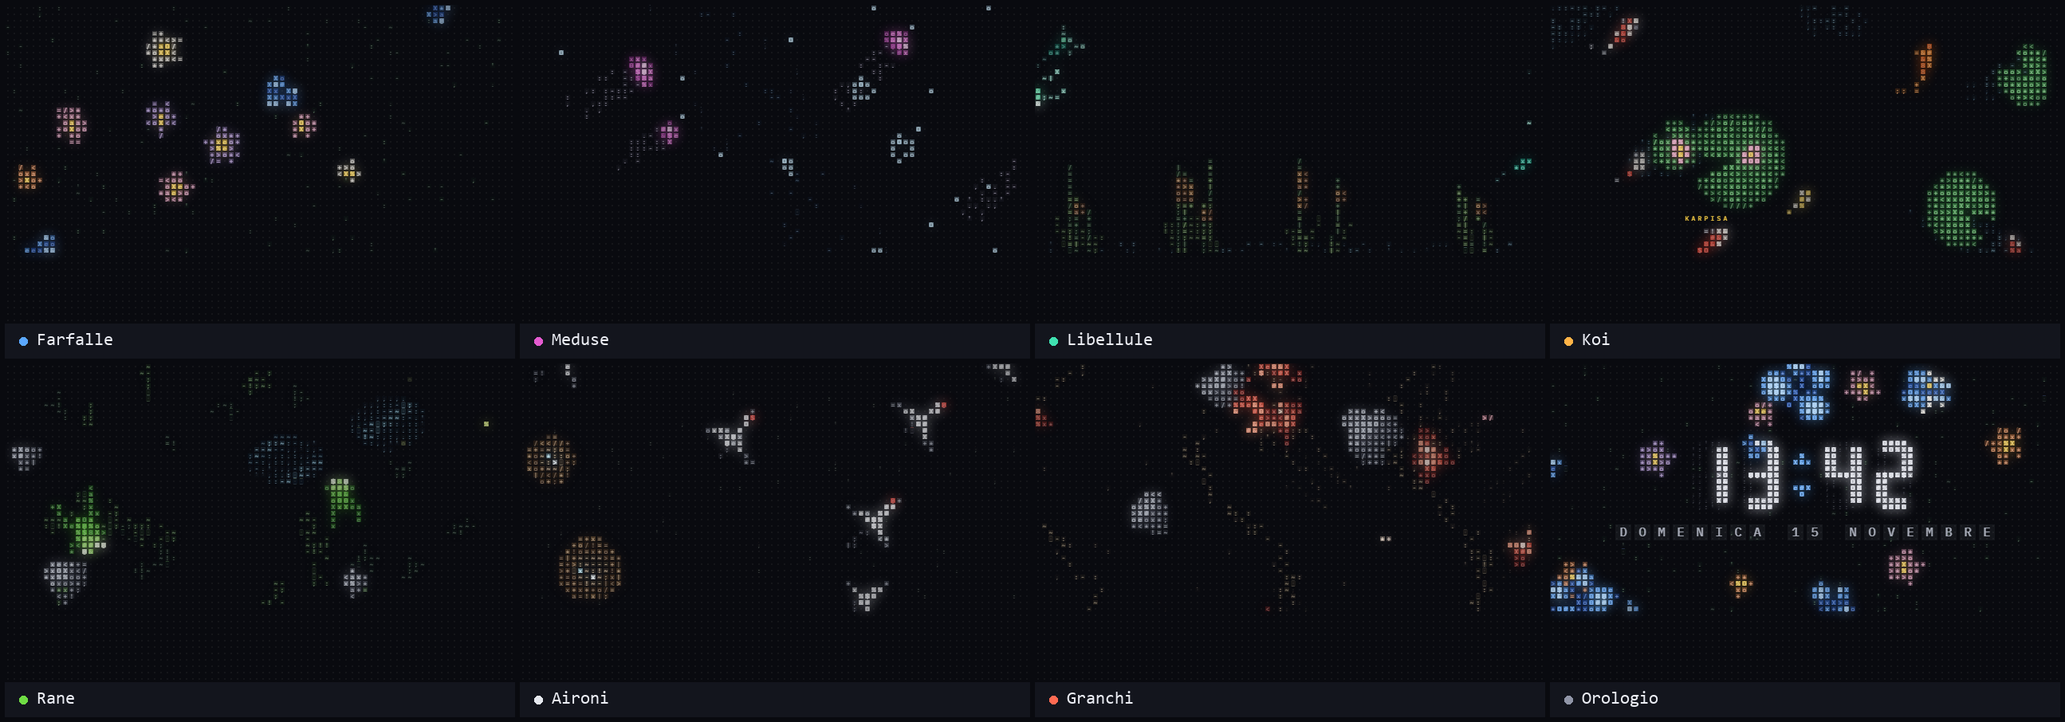
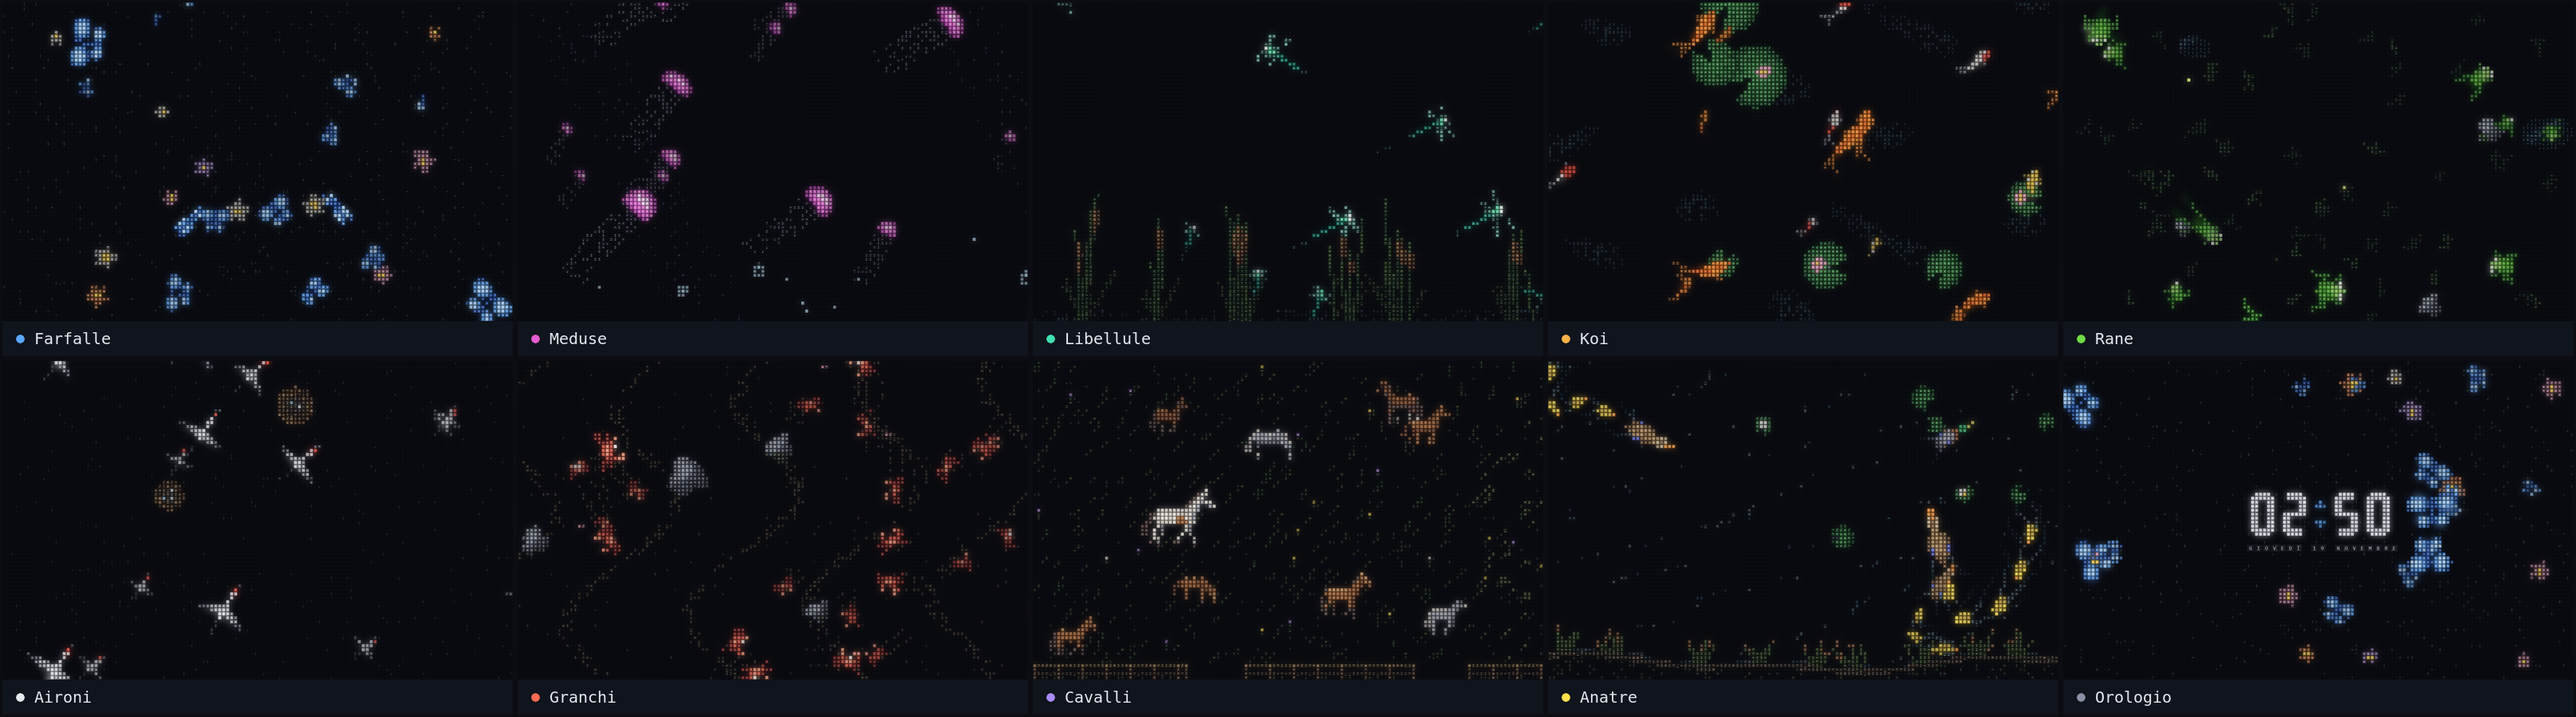
README: l'immagine delle specie con cavalli e anatre
docs/animals.png rifatta con le nove specie più l'orologio (5×2, stesso stile),
testi alternativi aggiornati, e il cibo vale anche per le anatre.

Claude-Session: https://claude.ai/code/session_012nkyHFCHG9uKHkf9beoT6W

diff --git a/README.it.md b/README.it.md
@@ -18,7 +18,7 @@
 Nove specie, una alla volta, ognuna con il suo ambiente. Di serie lo sfondo passa alla successiva ogni 2 minuti; dal programma per Windows si sceglie ogni quanto (da 30 secondi a un'ora) e quali animali far girare. Quando il PC è in carica restano le koi nel loro stagno (si può disattivare).
 
 <p align="center">
-  <img src="docs/animals.png" alt="Le sette specie, ognuna nel suo ambiente: farfalle sul prato fiorito, meduse tra le bolle, libellule sulle canne, koi nello stagno, rane nel prato con sassi e lucciole, aironi con i nidi, granchi sulla sabbia; più l'orologio" width="100%">
+  <img src="docs/animals.png" alt="Le nove specie, ognuna nel suo ambiente: farfalle sul prato fiorito, meduse tra le bolle, libellule sulle canne, koi nello stagno, rane nel prato con sassi e lucciole, aironi con i nidi, cavalli nella prateria, anatre con gli anatroccoli nello stagno, granchi sulla sabbia; più l'orologio" width="100%">
 </p>
 
 | Specie | Come si muove | L'ambiente | Con l'orologio |
@@ -137,7 +137,7 @@ La cartella `app/` contiene un programma che mette lo sfondo dietro le icone su 
 - **Tema**: scuro, chiaro oppure come il sistema (vedi [Tema chiaro e scuro](#tema-chiaro-e-scuro));
 - **Salva una foto dello sfondo**: un PNG per schermo nella cartella Immagini (vedi [Foto dello sfondo](#foto-dello-sfondo));
 - **Orologio al centro**: togliendo la spunta l'orologio sparisce e lo schermo è tutto per gli animali;
-- **Clic sul desktop agli animali**: un clic in una zona vuota del desktop dà da mangiare alle koi o fa scappare gli altri animali, come nel browser;
+- **Clic sul desktop agli animali**: un clic in una zona vuota del desktop dà da mangiare alle koi e alle anatre o fa scappare gli altri animali, come nel browser;
 - le pause (a batteria, con app a schermo intero, quando le finestre coprono il desktop; le stesse voci anche su macOS e Linux), l'avvio con Windows.
 
 #### Scaricarlo
@@ -182,7 +182,7 @@ Apri `wallpaper/index.html` in un browser qualsiasi. Aggiungendo il nome di una 
 index.html#koi      index.html#meduse      index.html#granchi
 ```
 
-Nel browser un clic sullo sfondo fa disperdere gli animali; con le koi invece fa cadere del cibo.
+Nel browser un clic sullo sfondo fa disperdere gli animali; con le koi e le anatre invece fa cadere del cibo.
 
 ### Note
 
@@ -197,7 +197,7 @@ Lo stesso programma esiste per macOS 11 o successivo, su Mac con Apple Silicon e
 - Lo sfondo copre ogni schermo sopra l'immagine del desktop e sotto le icone del Finder, in tutti gli Spazi. Il menu è l'icona a forma di koi nella **barra dei menu**, con le stesse voci della versione Windows (al posto di "Avvia con Windows" c'è **Apri al login**).
 - **Pause.** Lo sfondo si ferma a batteria e, schermo per schermo, quando non si vede: finestre che coprono tutto il desktop, un'app a schermo intero, schermo bloccato o spento. Lo dice macOS stesso (lo stato di occlusione della finestra), senza controlli a parte; riparte entro mezzo secondo da quando torna visibile. Come su Windows, nel menu ci sono le voci **Pausa con app a schermo intero** e **Pausa quando le finestre coprono il desktop**, che si possono spegnere una per una.
 - **Barra dei menu e Dock.** I widget restano fuori dalla barra dei menu e dal Dock, anche se lo sposti o lo nascondi.
-- **Clic sul desktop.** Un clic sul desktop, anche sulle icone del Finder, dà da mangiare alle koi o fa scappare gli altri animali. Usa un monitor globale dei clic di macOS (`NSEvent`): vede solo dove si preme il tasto sinistro nelle altre app, non blocca né cambia il clic, non registra niente e non chiede il permesso Accessibilità (serve solo per i tasti). Il clic vale solo se nel punto non c'è nessuna finestra, il Dock o la barra dei menu. Si spegne togliendo la spunta a **Clic sul desktop agli animali**.
+- **Clic sul desktop.** Un clic sul desktop, anche sulle icone del Finder, dà da mangiare alle koi e alle anatre o fa scappare gli altri animali. Usa un monitor globale dei clic di macOS (`NSEvent`): vede solo dove si preme il tasto sinistro nelle altre app, non blocca né cambia il clic, non registra niente e non chiede il permesso Accessibilità (serve solo per i tasti). Il clic vale solo se nel punto non c'è nessuna finestra, il Dock o la barra dei menu. Si spegne togliendo la spunta a **Clic sul desktop agli animali**.
 - **"Impossibile aprire l'app".** L'app non è firmata con un certificato Apple, quindi al primo avvio macOS la blocca: apri **Impostazioni di Sistema → Privacy e sicurezza** e premi **Apri comunque**, poi conferma.
 - **Aggiornare.** Trascina la versione nuova in **Applicazioni** (sostituendo la vecchia) e aprila: chiude da sola quella che sta girando, anche se veniva da un'altra cartella, e prende il suo posto; se **Apri al login** è attivo, da quel momento all'accesso parte la nuova. Una .app vecchia in un'altra cartella non la cancella: toglila tu. **Apri al login** si attiva solo con l'app in una cartella fissa (non aperta direttamente dal DMG).
 - **Da dove viene il DMG e cosa tocca**: come per Windows, lo compila GitHub Actions, ha SHA256 e attestazione (`gh attestation verify ascii-zoo-macos.dmg --repo ascii-things/ascii-zoo`), scrive solo `~/Library/Application Support/AsciiZoo/config.json`, le foto che chiedi (in `~/Pictures/ASCII Zoo`) e, se attivi **Apri al login**, `~/Library/LaunchAgents/io.github.tressilloide.asciizoo.plist`. Non si collega a internet.

diff --git a/README.md b/README.md
@@ -42,12 +42,12 @@ It's a small example of what two people and an AI can ship together in a short t
 ## Features
 
 <p align="center">
-  <img src="docs/animals.png" alt="The seven species, each in its own world: butterflies on a flower meadow, jellyfish among bubbles, dragonflies on reeds, koi in a pond, frogs in the grass with fireflies, herons with nests, crabs on the sand" width="100%">
+  <img src="docs/animals.png" alt="The nine species, each in its own world: butterflies on a flower meadow, jellyfish among bubbles, dragonflies on reeds, koi in a pond, frogs in the grass with fireflies, herons with nests, horses on the prairie, ducks with ducklings on a pond, crabs on the sand" width="100%">
 </p>
 
 - **9 species, 9 worlds.** Butterflies on a flower meadow, jellyfish among rising bubbles, dragonflies on reeds, koi in a pond with lily pads, frogs and fireflies, herons with nests that hatch, crabs on the sand, a herd of horses on a windswept prairie, a mother duck leading her ducklings across a pond (click to throw them bread). They rotate automatically, or you pick one.
 - **An ASCII clock** they interact with: butterflies land on the digits, koi flee when the minute ticks over. Don't want it? Untick **Orologio al centro** (clock in the middle) in the menu, or open `index.html?orologio=0` in the browser.
-- **Click the desktop** to feed the koi or scatter the other animals (Windows, macOS, and Linux with GNOME 45+ through a tiny GNOME Shell extension, since Wayland doesn't let apps see clicks on other windows).
+- **Click the desktop** to feed the koi and ducks or scatter the other animals (Windows, macOS, and Linux with GNOME 45+ through a tiny GNOME Shell extension, since Wayland doesn't let apps see clicks on other windows).
 - **Dark or light.** Dark by default; the light theme draws the animals as ink on cream paper, or it can follow the system's light/dark setting. Menu **Tema**, or `index.html?tema=chiaro` in the browser.
 - **Snapshots**: save a PNG of the wallpaper exactly as it looks right now, widgets included, into Pictures/ASCII Zoo (menu **Salva una foto dello sfondo**, or `P` in the browser).
 - **Multi-monitor**, with a different animal on each screen if you like.
